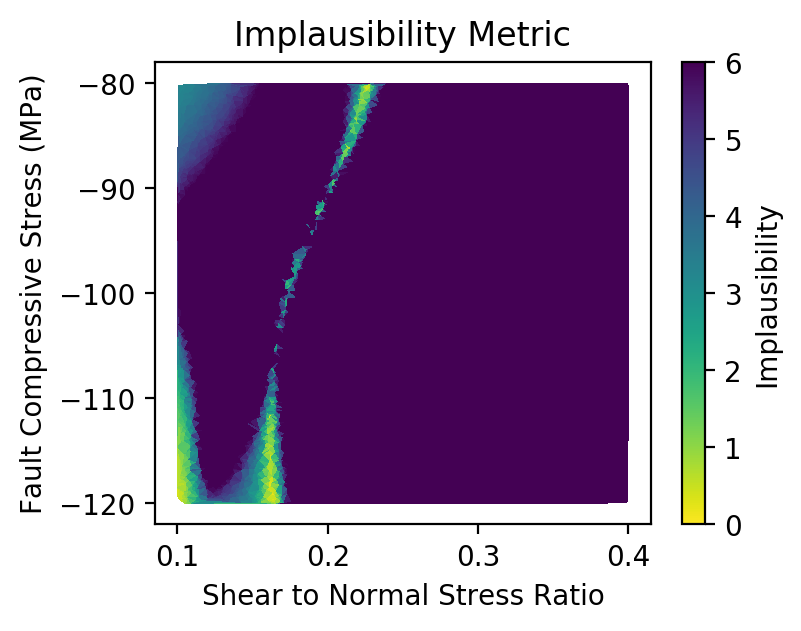
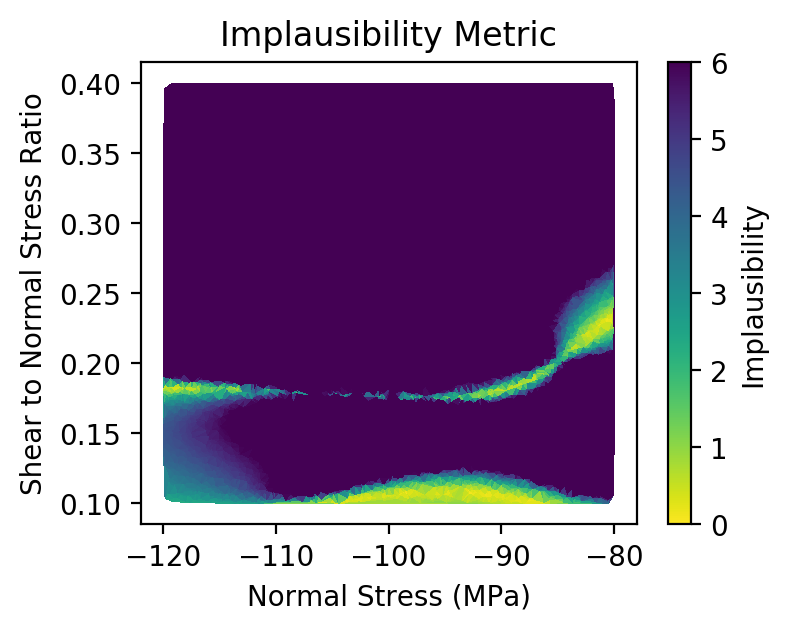
remade figures to be consistent

diff --git a/vecma_mogp_demo.py b/vecma_mogp_demo.py
@@ -94,7 +94,6 @@ plt.ylabel('Shear to Normal Stress Ratio')
 plt.xlim((-120., -80.))
 plt.ylim((0.1, 0.4))
 plt.title("NROY Points")
-plt.savefig("nroy.png",dpi=200)
 plt.show()
 
 plt.figure(figsize=(4,3))
@@ -106,5 +105,4 @@ cb.set_label("Implausibility")
 plt.xlabel('Normal Stress (MPa)')
 plt.ylabel('Shear to Normal Stress Ratio')
 plt.title("Implausibility Metric")
-plt.savefig("implausibility.png",dpi=200)
 plt.show()
